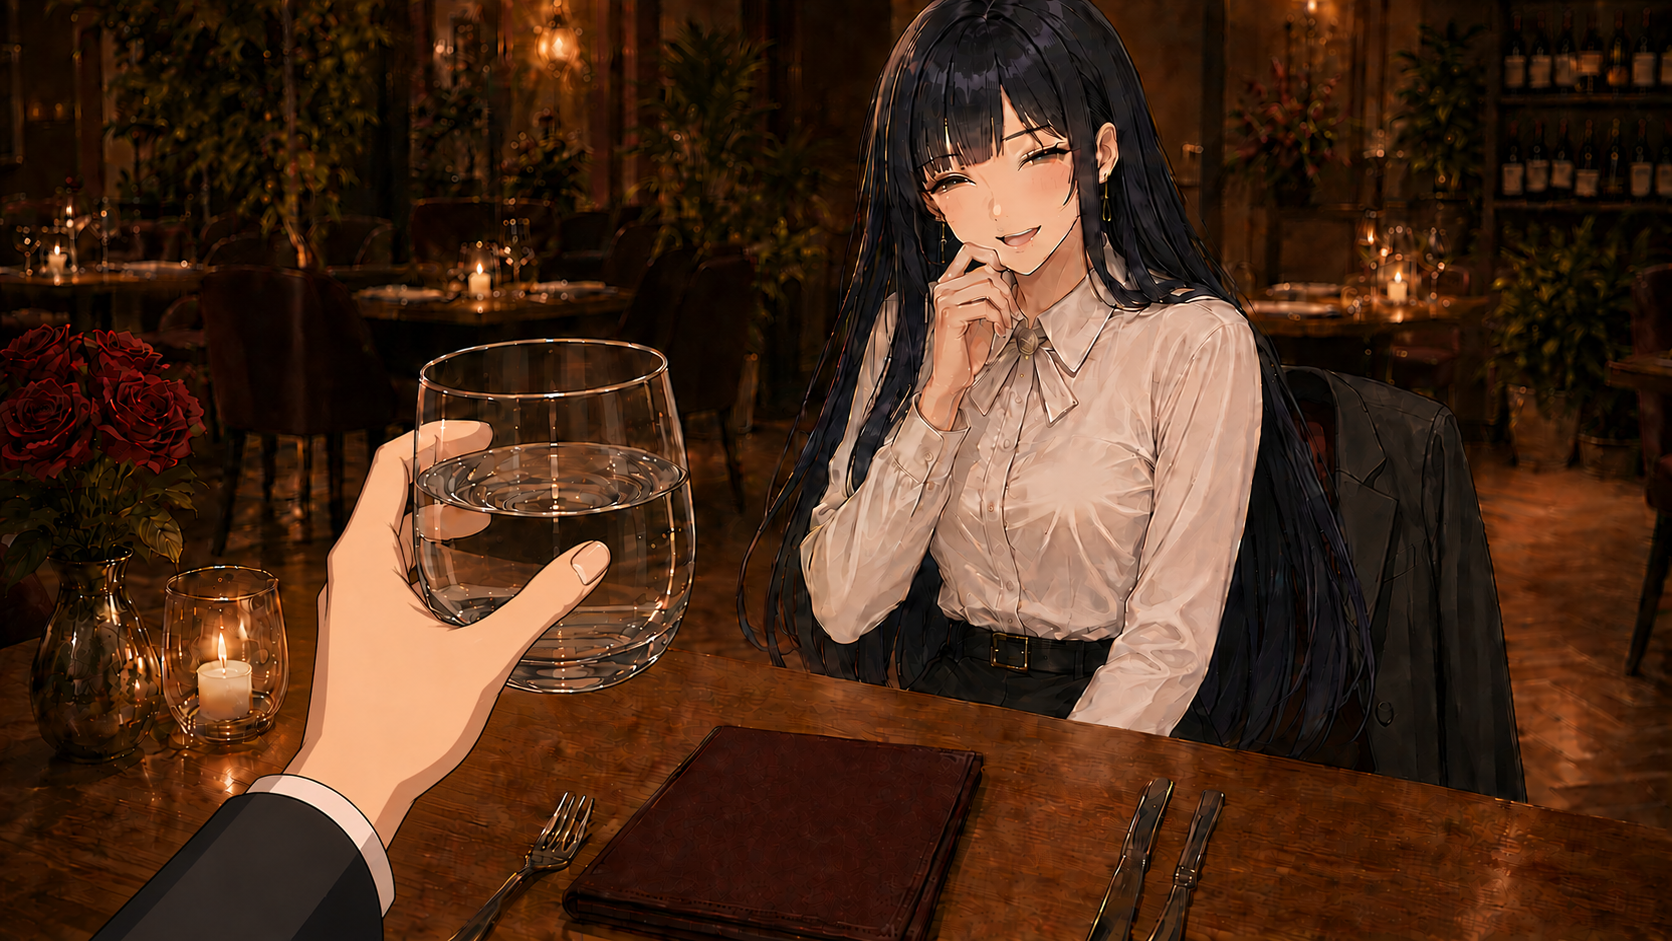
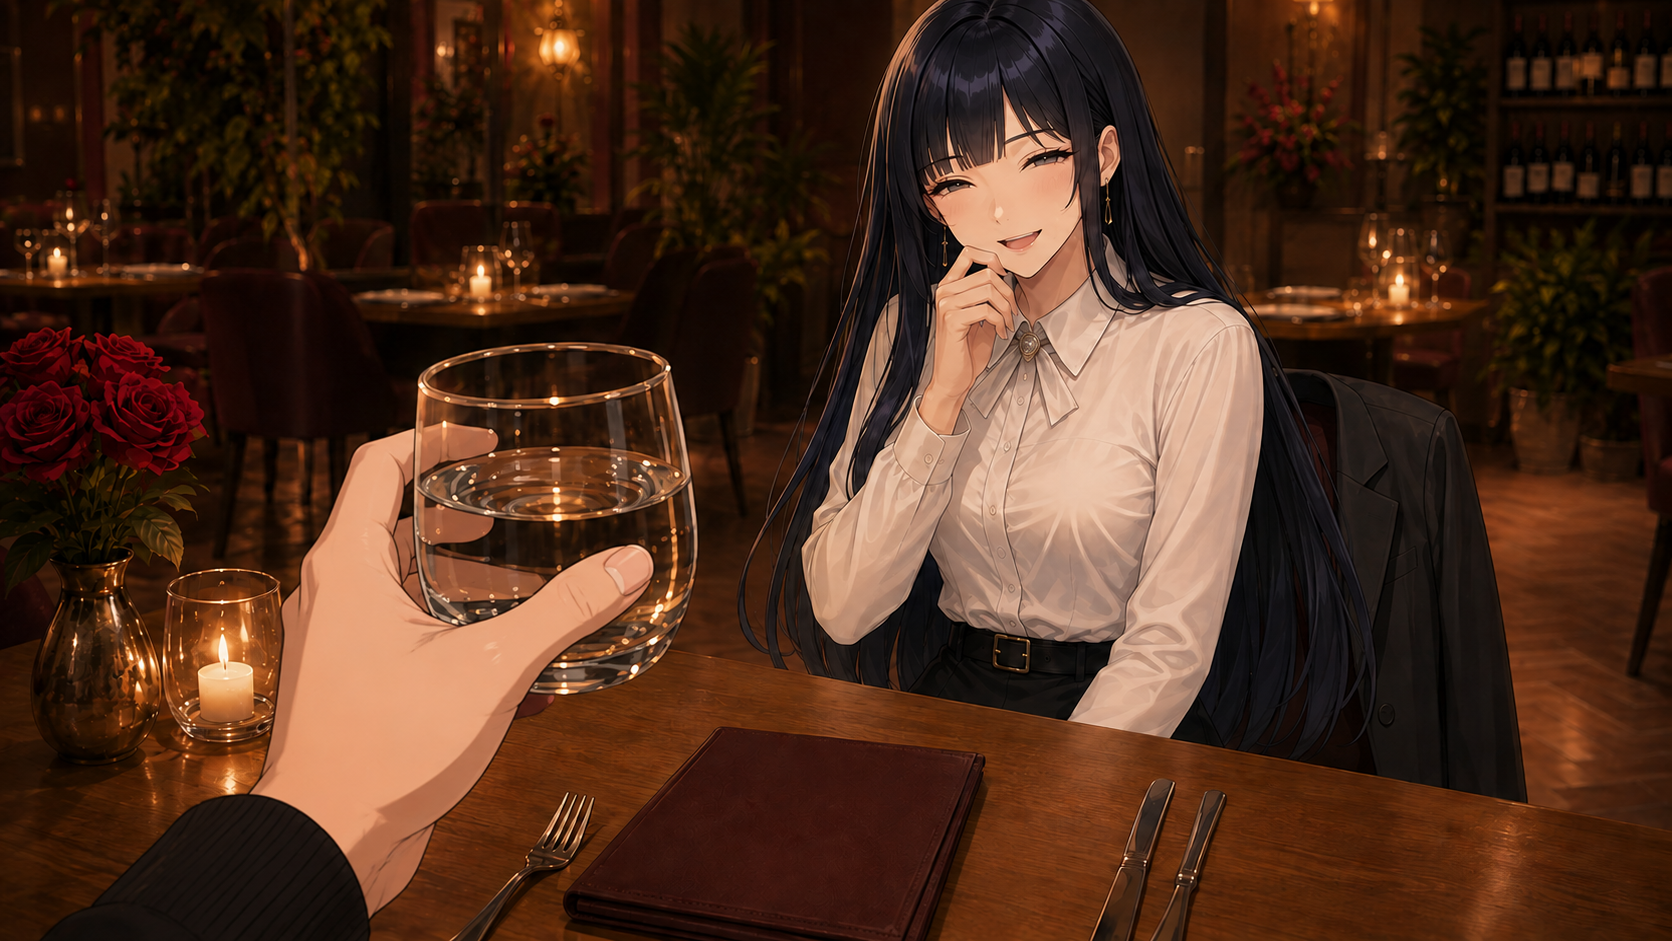
fix(art): unify day18 hand style

diff --git a/game.js b/game.js
@@ -81,7 +81,7 @@ import { applyDay16V4GameChoice, completeDay16V4GameChapter, getDay16V4Compatibi
 import { LOCKED_DAY17_SCENE_ID, applyLockedDay17ChoiceState, getLockedDay17LegacyChoice, getLockedDay17ResumePresentation, getLockedDay17Segment } from "./src/day17-campaign-runtime.mjs?v=1";
 import { applyDay17V4GameChoice, completeDay17V4GameChapter, getDay17V4Compatibility, getDay17V4GameResumePresentation, getDay17V4GameSegment, prepareDay17V4GameEntry } from "./src/day17-v4-game-bridge.mjs?v=3";
 import { LOCKED_DAY18_SCENE_ID, applyLockedDay18ChoiceState as applyLegacyDay18ChoiceState, getLockedDay18LegacyChoice, getLockedDay18ResumePresentation as getLegacyDay18ResumePresentation, getLockedDay18Segment as getLegacyDay18Segment } from "./src/day18-campaign-runtime.mjs?v=1";
-import {prepareDay18V4GameEntry, getDay18V4GameSegment, getDay18V4GameResumePresentation, applyDay18V4GameChoice, completeDay18V4GameChapter} from "./src/day18-v4-game-bridge.mjs?v=61";
+import {prepareDay18V4GameEntry, getDay18V4GameSegment, getDay18V4GameResumePresentation, applyDay18V4GameChoice, completeDay18V4GameChapter} from "./src/day18-v4-game-bridge.mjs?v=62";
 import { LOCKED_DAY19_SCENE_ID, applyLockedDay19ChoiceState, getLockedDay19LegacyChoice, getLockedDay19ResumePresentation, getLockedDay19Segment } from "./src/day19-campaign-runtime.mjs?v=1";
 import { applyDay19V4GameChoice, completeDay19V4GameChapter, getDay19V4GameCompatibility, getDay19V4GameResumePresentation, getDay19V4GameSegment, prepareDay19V4GameEntry } from "./src/day19-v4-game-bridge.mjs?v=4";
 import { LOCKED_DAY20_SCENE_ID, applyLockedDay20ChoiceState as applyLegacyDay20ChoiceState, getLockedDay20LegacyChoice, getLockedDay20ResumePresentation as getLegacyDay20ResumePresentation, getLockedDay20Segment as getLegacyDay20Segment } from "./src/day20-campaign-runtime.mjs?v=1";

diff --git a/tests/day21-v4-browser-entry.html b/tests/day21-v4-browser-entry.html
@@ -7,7 +7,7 @@
 <button data-route="park">Park · 공원 대화</button><button data-route="phone">Phone · 통화</button><button data-route="deferred">Deferred · 무연락 연기</button><button data-route="busan">Busan · 검증 견적</button><button data-route="seoul">Seoul · 당일</button><button data-route="rest">Rest · 각자 쉬기</button><button id="restore">테스트 전 저장 복원</button><p role="status" id="status"></p>
 <script type="module">
 import {createInitialState} from '../src/game-core.mjs';import {createGirlfriendFromProfile} from '../src/girlfriend-manager.mjs';import {SaveManager} from '../src/save-manager.mjs';import {GAME_MODES} from '../src/scenario-state.mjs';
-import {beginDay18V4,applyDay18V4Choice} from '../src/day18-v4-state-contract.mjs';import {completeDay18V4GameChapter} from '../src/day18-v4-game-bridge.mjs?v=61';
+import {beginDay18V4,applyDay18V4Choice} from '../src/day18-v4-state-contract.mjs';import {completeDay18V4GameChapter} from '../src/day18-v4-game-bridge.mjs?v=62';
 import {getDay19V4Options} from '../src/day19-v4-state-contract.mjs';import {applyDay19V4GameChoice,completeDay19V4GameChapter,prepareDay19V4GameEntry} from '../src/day19-v4-game-bridge.mjs?v=4';
 import {getDay20V4Options} from '../src/day20-v4-state-contract.mjs';import {applyDay20V4GameChoice,applyDay20V4GameResolution,completeDay20V4GameChapter,getDay20V4GameSegment,prepareDay20V4GameEntry} from '../src/day20-v4-game-bridge.mjs?v=1';import {getDay20V4RuntimeResolution} from '../src/day20-v4-runtime-resolution.mjs?v=1';
 const backupKey='day21-v4-qa-save-backup',keys=[SaveManager.key,SaveManager.keyForMode(GAME_MODES.MARRIAGE_30),SaveManager.keyForMode(GAME_MODES.FREE_ROMANCE)];

diff --git a/tests/day19-v4-browser-entry.html b/tests/day19-v4-browser-entry.html
@@ -15,7 +15,7 @@ import {createGirlfriendFromProfile} from '../src/girlfriend-manager.mjs';
 import {SaveManager} from '../src/save-manager.mjs';
 import {GAME_MODES} from '../src/scenario-state.mjs';
 import {beginDay18V4,applyDay18V4Choice} from '../src/day18-v4-state-contract.mjs';
-import {completeDay18V4GameChapter} from '../src/day18-v4-game-bridge.mjs?v=61';
+import {completeDay18V4GameChapter} from '../src/day18-v4-game-bridge.mjs?v=62';
 const backupKey='day19-v4-qa-save-backup';
 const keys=[SaveManager.key,SaveManager.keyForMode(GAME_MODES.MARRIAGE_30),SaveManager.keyForMode(GAME_MODES.FREE_ROMANCE)];
 function backup(){if(sessionStorage.getItem(backupKey)===null)sessionStorage.setItem(backupKey,JSON.stringify(Object.fromEntries(keys.map(key=>[key,localStorage.getItem(key)]))));}

diff --git a/tests/day22-v4-browser-entry.html b/tests/day22-v4-browser-entry.html
@@ -20,7 +20,7 @@ import {createGirlfriendFromProfile} from '../src/girlfriend-manager.mjs';
 import {SaveManager} from '../src/save-manager.mjs';
 import {GAME_MODES} from '../src/scenario-state.mjs';
 import {beginDay18V4,applyDay18V4Choice} from '../src/day18-v4-state-contract.mjs';
-import {completeDay18V4GameChapter} from '../src/day18-v4-game-bridge.mjs?v=61';
+import {completeDay18V4GameChapter} from '../src/day18-v4-game-bridge.mjs?v=62';
 import {getDay19V4Options} from '../src/day19-v4-state-contract.mjs';
 import {applyDay19V4GameChoice,completeDay19V4GameChapter,prepareDay19V4GameEntry} from '../src/day19-v4-game-bridge.mjs?v=4';
 import {getDay20V4Options} from '../src/day20-v4-state-contract.mjs';

diff --git a/tests/day20-v4-browser-entry.html b/tests/day20-v4-browser-entry.html
@@ -17,7 +17,7 @@ import {createGirlfriendFromProfile} from '../src/girlfriend-manager.mjs';
 import {SaveManager} from '../src/save-manager.mjs';
 import {GAME_MODES} from '../src/scenario-state.mjs';
 import {beginDay18V4,applyDay18V4Choice} from '../src/day18-v4-state-contract.mjs';
-import {completeDay18V4GameChapter} from '../src/day18-v4-game-bridge.mjs?v=61';
+import {completeDay18V4GameChapter} from '../src/day18-v4-game-bridge.mjs?v=62';
 import {getDay19V4Options} from '../src/day19-v4-state-contract.mjs';
 import {applyDay19V4GameChoice,completeDay19V4GameChapter,prepareDay19V4GameEntry} from '../src/day19-v4-game-bridge.mjs?v=4';
 const backupKey='day20-v4-qa-save-backup';

diff --git a/tests/day18-v4-browser-entry.html b/tests/day18-v4-browser-entry.html
@@ -41,7 +41,7 @@ import {createInitialState} from '../src/game-core.mjs';
 import {createGirlfriendFromProfile} from '../src/girlfriend-manager.mjs';
 import {SaveManager} from '../src/save-manager.mjs';
 import {GAME_MODES} from '../src/scenario-state.mjs';
-import {prepareDay18V4GameEntry,applyDay18V4GameChoice} from '../src/day18-v4-game-bridge.mjs?v=61';
+import {prepareDay18V4GameEntry,applyDay18V4GameChoice} from '../src/day18-v4-game-bridge.mjs?v=62';
 const backupKey = 'day18-v4-qa-save-backup';
 const keys = [SaveManager.key, SaveManager.keyForMode(GAME_MODES.MARRIAGE_30)];
 document.querySelectorAll('[data-route]').forEach(button => button.addEventListener('click', () => {

diff --git a/index.html b/index.html
@@ -279,6 +279,6 @@
     </article>
   </section>
   <div id="toast" class="toast"></div>
-  <script type="module" src="game.js?v=265"></script>
+  <script type="module" src="game.js?v=266"></script>
 </body>
 </html>

diff --git a/docs/DAY18_V4_HAND_STYLE_CORRECTION.md b/docs/DAY18_V4_HAND_STYLE_CORRECTION.md
@@ -85,3 +85,12 @@ DAY 18 손 포함 CG를 전수 육안 감사했다. `yuri-menu-wait-water-v1`, `
 - built-in imagegen `precise-object-edit` 승인본 6개는 모두 1672×941 PNG다. SHA-256은 유리 물 `3B0AF8DA...C03CDB`, 음식 나누기 `1731B5D3...012BA`, 맛보기 `918155CF...57483`, 각자 식사 `59ACD6A2...0C612`, 자리 만들기 `116DD39F...4AE97`, 채소 한입 `6BAB2515...8FA19`다.
 - 손마다 다섯 손가락, 소품 접촉과 가림 순서를 확인해 `해부학 PASS`; 손의 선화·테이퍼·단계식 명암·색온도와 과대 원근을 같은 프레임 기준으로 확인해 `화풍 PASS`다.
 - 실제 브라우저 일반 fixture에서 `game.js?v=257`과 bridge/playable v61로 유리 물 및 음식 나누기 집중 경로를 SKIP 없이 열었다. 새 자산 연결, 대사 순서, 화면 오버플로 없음을 확인했고 테스트 전 사용자 저장을 복원했다.
+
+## 2026-09-06 v8 사용자 재신고 교정
+
+- 사용자 첨부 원본을 다시 직접 편집 대상으로 사용했다. 전경 주인공 손·노출 손목·검은 소매 경계만 유리의 손과 얼굴을 기준으로 선화·단순 관절·2~3단 셀 명암으로 교정하고, 유리의 정체성·자세·물잔·수위·식탁·메뉴·배경·크롭은 보존했다.
+- 새 런타임 자산은 `assets/events/day18-v4/yuri-menu-wait-water-v8.png`다. 배포 이력 v1~v7도 v8과 바이트 동일하게 격리해 오래된 URL이 실사 손 비트맵을 반환하지 않게 했다.
+- 캐시 사슬은 `game.js?v=266` → bridge/playable v62 → v8 이미지 URL로 갱신했다.
+- 재발 방지 규칙 23을 추가했다. 애니메이션 캐릭터와 큰 POV 손이 같은 프레임에 있으면 기본 불합격에서 시작하고 선 밀도·피부색·명암 경계·손바닥 점유율을 캐릭터와 나란히 검증한다.
+- built-in imagegen `precise-object-edit`를 사용했다. 생성 원본은 `exec-5c837948-1994-4e36-b299-eeddd66d44cc.png`이며, 프로젝트 승인본은 1672×941 PNG다.
+- 실제 브라우저 일반 fixture에서 `game.js?v=266`의 유리 단위 실수 물 경로를 SKIP 없이 진행해 해당 CG cue를 통과했고, 새 v8 URL을 브라우저에서 원본 크기로 직접 열어 전경 손의 선화·다섯 손가락·잔 그립·분리 명암과 유리 얼굴/손의 화풍 일치를 확인했다. 자동 안정화 캡처가 3초짜리 CG 뒤 대사로 이동하는 특성상 최종 증거 화면은 동일 브라우저의 v8 원본 URL로 남겼다. 화면상 런타임 오류는 없었고 fixture가 백업한 사용자 저장을 복원했다. `해부학 PASS`, `화풍 PASS`다.

diff --git a/docs/STORY_V4_IMAGE_STYLE_RULES.md b/docs/STORY_V4_IMAGE_STYLE_RULES.md
@@ -26,6 +26,7 @@
 20. POV 손은 서사적으로 필수인 물리 행동을 보여 줄 때만 사용한다. 대사·소리·소품 이동만으로 같은 정보를 전달할 수 있으면 손을 화면에 넣지 않는다. 손을 넣는 편이 장면을 더 화려하게 만든다는 이유는 필수 근거가 아니다.
 21. 전경 손은 원근 때문에 커질 수 있지만 손바닥의 화면 점유율과 손목 폭이 상대 캐릭터 얼굴보다 먼저 시선을 빼앗으면 **과대 원근 FAIL**이다. 편집 시 기존 접촉점은 보존하되 손바닥 부피와 손가락 길이를 애니메이션 인체 비례로 다시 맞춘다.
 22. 한 장면이 두 번 이상 손 화풍으로 재신고되면 기존 프롬프트의 수식어를 강화하는 방식만 반복하지 않는다. `손 제거/소품 단독 연출`과 `캐릭터 기준 정밀 편집` 두 대안을 비교하고, 최신본과 직전 반려본을 같은 크기로 나란히 검수한 기록을 남긴다.
+23. **애니메이션 캐릭터와 큰 POV 손이 동시에 보이는 구도는 생성 결과를 기본 불합격으로 시작한다.** 손이 서사상 필수일 때만 같은 프레임의 캐릭터 손·얼굴을 직접 스타일 기준으로 지정하고, 선 밀도·피부색·명암 경계·손바닥 점유율 네 항목을 나란히 통과시킨다. 하나라도 더 사진적으로 보이면 프롬프트에 `anime`가 있어도 반려하며, 소품 단독 연출로 바꿀 수 있는지도 반드시 기록한다.
 
 ## 생성·편집 프롬프트 규칙
 

diff --git a/docs/DAY18_V4_YURI_MENU_WATER.md b/docs/DAY18_V4_YURI_MENU_WATER.md
@@ -12,7 +12,7 @@
 
 - 최초 자산: `assets/events/day18-v4/yuri-menu-wait-water-v1.png` (손 화풍 반려)
 - 1차 수정본: `assets/events/day18-v4/yuri-menu-wait-water-v2.png` (재노출 신고 후 런타임 반려)
-- 최종 런타임 경로: `assets/events/day18-v4/yuri-menu-wait-water-v7.png` (손을 단순 평면화하는 데서 그치지 않고 유리의 손과 같은 선 밀도·테이퍼·색온도로 맞추고, 손바닥 부피와 원근 과장을 줄인 승인본)
+- 최종 런타임 경로: `assets/events/day18-v4/yuri-menu-wait-water-v8.png` (재신고 원본을 직접 편집해 전경 손의 사진식 피부를 제거하고 유리의 손·얼굴과 같은 선 밀도·단계식 명암으로 맞춘 승인본)
 - 참조: `menu-open-v1.png`, `yuri-ex-girlfriend-2d.png`, `yuri-jacket-chair-v1.png`
 - 최신 생성 원본: `C:\Users\aaa\.codex\generated_images\01a06810-af54-7db0-a3f6-3764034ac137\exec-2242954d-b3b6-4ad3-9046-340212a5d16f.png`
 - 생성 방식: built-in imagegen.
